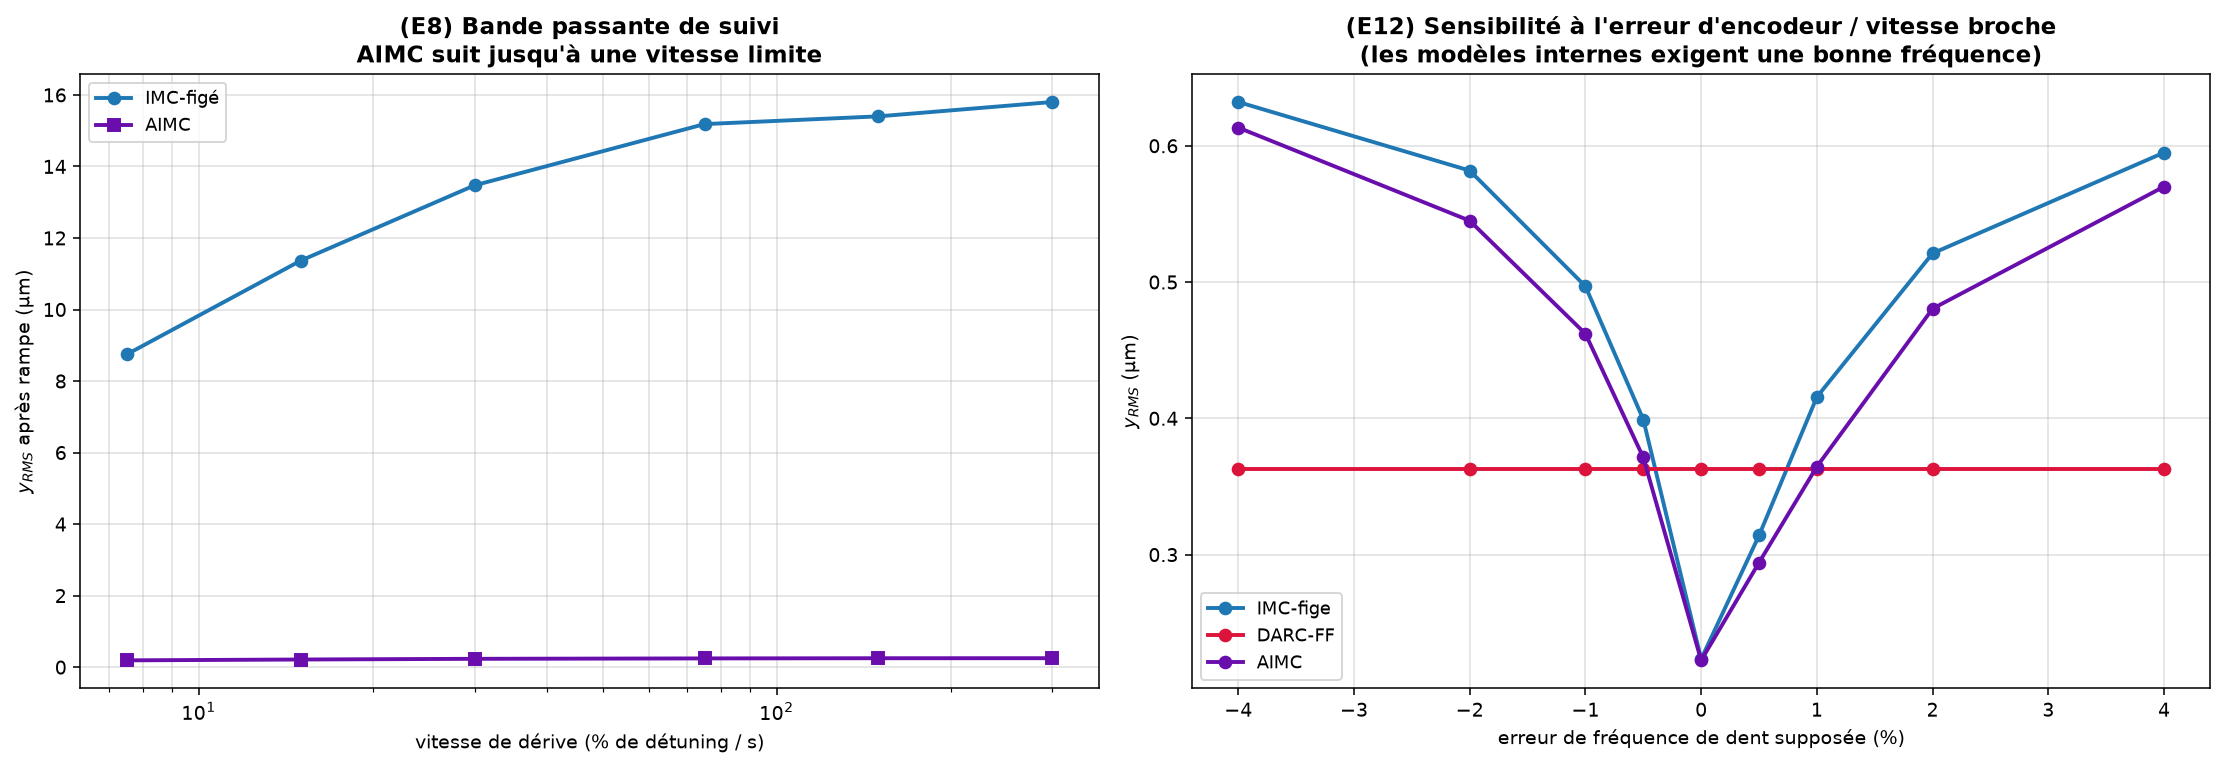
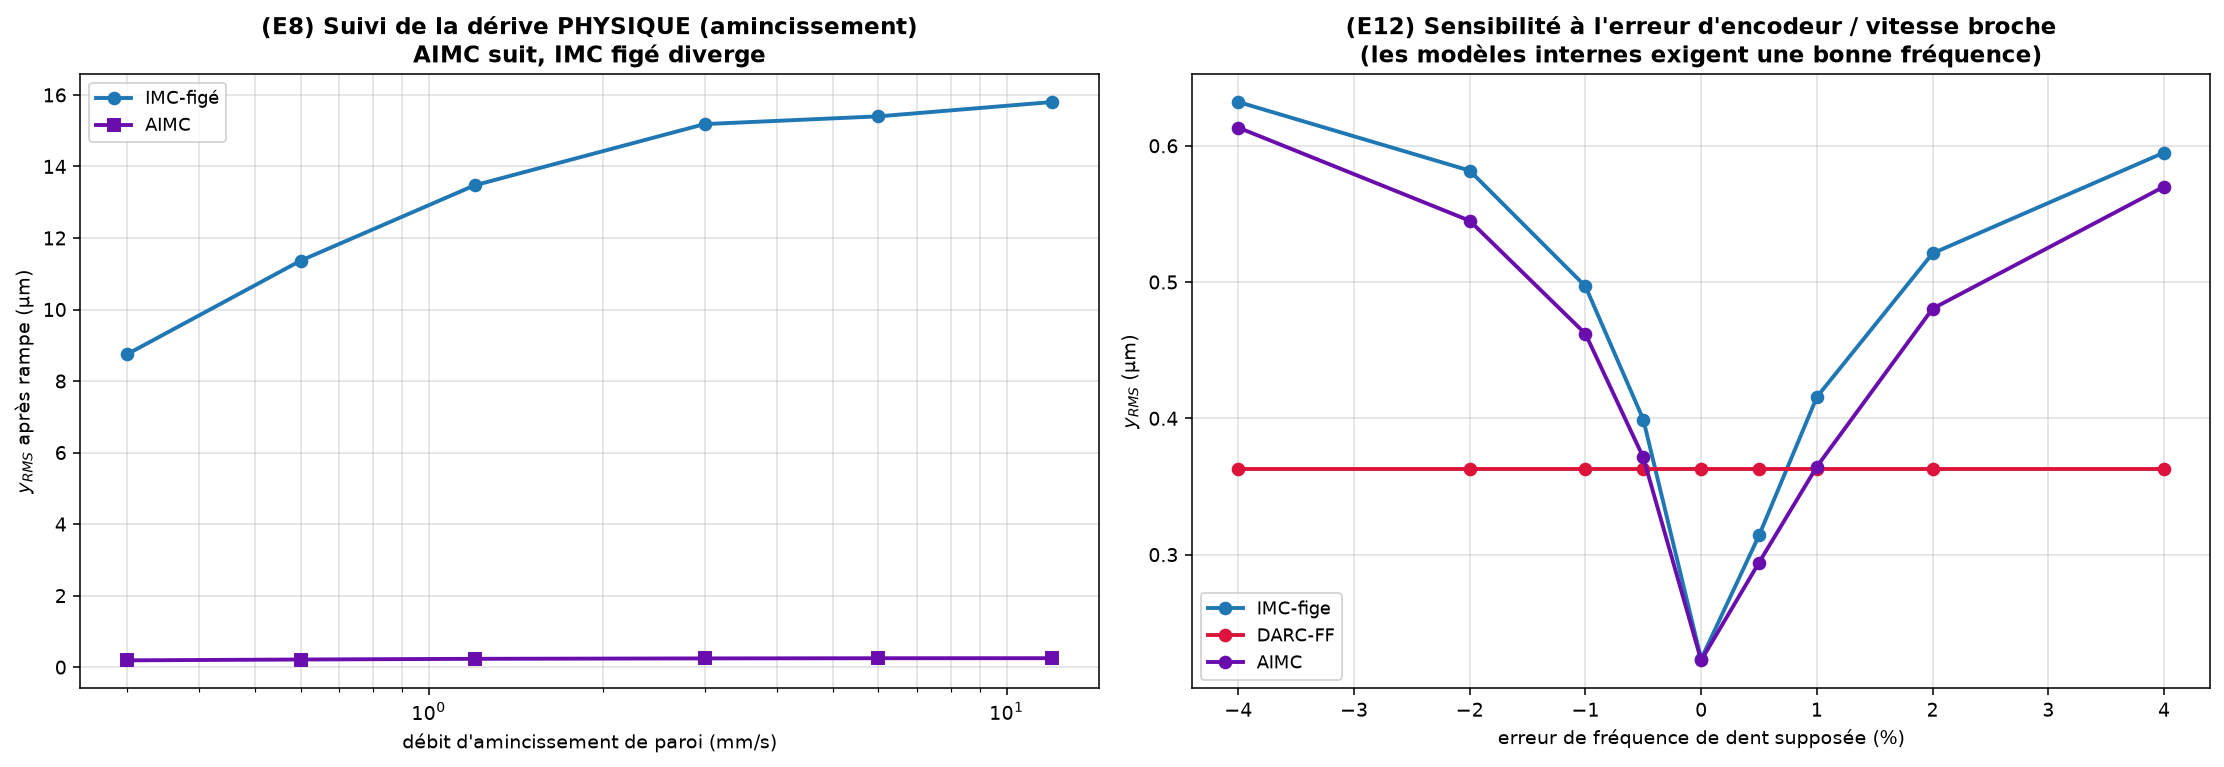
Physical modeling of the frequency drift: material-removal wall thinning
Answers the reviewer question 'is the drift physically modeled?'. Previously
k_scale_t was a prescribed ramp; it is now grounded in the mechanics of
thin-wall material removal, with an exact scaling law.

New 01_core/material_removal.py:
- For a plate, bending AND torsion stiffness scale as B^3 and inertia as B,
  so every natural frequency scales as omega_i ~ B (wall thickness). The
  uniform-across-modes detuning (the single MMAE parameter rho) is therefore
  EXACT for plate bending, not an approximation.
- thinning_schedule(t, B_nominal, removed_total | passes*ae, ...) returns
  k_scale_t = (B(t)/B0)^2 for the solver, plus B(t) and rho(t).
- Verified: (B/B0)^2 == the former (1+rho)^2 to machine precision (2e-16), so
  all prior detuning/drift results STAND, now physically interpreted:
  -15% detuning = 15% thinning = 0.6mm off 4mm = 6 passes x ae=0.1mm.

main_aimc_study.py (E3) and main_aimc_drift.py (E8) now build the drift from
thinning_schedule; E8 is reported in physical mm/s of wall thinning
(0.30-12 mm/s) instead of %/s. Numbers unchanged.

newmark_solver.py k_scale_t docstring gives the omega~B basis; docs section
6ter documents the physical model and its explicit limits (spatially uniform
effective thickness; mode shapes and Dp held nominal).

Claude-Session: https://claude.ai/code/session_01Piz883K812BzF5gruwcUWy

Changed region(s): [[0.1241, 0.0, 0.4033, 0.09], [0.1862, 0.9596, 0.3413, 0.9896]]

diff --git a/01_core/material_removal.py b/01_core/material_removal.py
@@ -1,0 +1,109 @@
+"""
+material_removal.py
+==================
+NMODÉLISATION PHYSIQUE de la dérive de fréquence en cours d'usinage d'une
+paroi mince — l'origine mécanique du détuning que l'AIMC identifie et suit.
+
+ORIGINE PHYSIQUE (enlèvement de matière) :
+Lorsqu'on usine une paroi mince, l'épaisseur locale B diminue (fraisage
+périphérique : chaque passe enlève l'engagement radial a_e ; en descendant la
+paroi, la portion déjà usinée est plus mince).  Les fréquences propres de la
+paroi dérivent en conséquence.
+
+LOI D'ÉCHELLE EXACTE (plaque) :  ω_i ∝ B
+Pour une plaque (flexion ET torsion), la rigidité par unité varie en B³
+(D = E B³/[12(1−ν²)], rigidité de torsion GJ ∝ B³) et l'inertie en B, d'où
+    ω_i = √(rigidité / inertie) ∝ √(B³/B) = B .
+=> TOUTES les fréquences (flexion, torsion, flexion-largeur) se mettent à
+   l'échelle du MÊME facteur B(t)/B₀.  La dérive uniforme entre modes
+   (k_scale identique pour tous) est donc EXACTE pour la flexion de plaque,
+   pas une approximation.  Elle JUSTIFIE physiquement le paramètre unique ρ
+   de la grille MMAE de l'AIMC :
+       ρ(t) = B(t)/B₀ − 1 ,  ω_i(t) = (1+ρ(t))·ω_{i,0} ,
+       k_scale(t) = (ω(t)/ω₀)² = (B(t)/B₀)²   (facteur sur Kp ; √ sur Cp).
+
+Un détuning de −15 % correspond exactement à un amincissement de 15 %
+(0.60 mm retirés d'une paroi de 4 mm).
+
+CE QUI N'EST PAS MODÉLISÉ (honnêteté) :
+- Amincissement SPATIALEMENT non uniforme : une paroi réellement usinée est
+  plus mince dans la zone déjà passée que devant l'outil ; cela ferait
+  aussi évoluer les FORMES propres et Dp, non seulement les fréquences.  Ici
+  on ne fait varier que les fréquences (effet dominant), les formes restent
+  celles de la plaque nominale — approximation « paroi d'épaisseur effective
+  uniforme instantanée ».
+- Couplage avec l'amortissement : ζ modaux supposés constants (Cp mis à
+  l'échelle en √k_scale pour garder ζ = C/(2√(KM)) constant).
+- Rétroaction géométrique de la matière enlevée sur le champ de contrainte.
+
+Ces limites sont explicites ; l'objet est de fournir une TRAJECTOIRE de
+fréquence physiquement fondée pour éprouver les commandes adaptatives.
+"""
+import numpy as np
+
+
+def kscale_from_thickness(B_current, B_nominal):
+    """
+    Facteur multiplicatif de raideur modale pour une épaisseur B_current
+    (loi de plaque ω ∝ B) :  k_scale = (B_current/B_nominal)².
+    ω(t) = √k_scale · ω₀ = (B_current/B_nominal)·ω₀.
+    """
+    r = float(B_current) / float(B_nominal)
+    return r * r
+
+
+def rho_from_thickness(B_current, B_nominal):
+    """Détuning fréquentiel ρ = ω/ω₀ − 1 = B_current/B_nominal − 1."""
+    return float(B_current) / float(B_nominal) - 1.0
+
+
+def thinning_schedule(t_vec, B_nominal, removed_total,
+                      t_start=None, t_end=None, profile='linear',
+                      passes=None, ae=None):
+    """
+    Construit la trajectoire k_scale(t) d'un amincissement PHYSIQUE de paroi.
+
+    Deux façons de spécifier la matière enlevée :
+      - directement par ``removed_total`` [m] (épaisseur totale retirée), ou
+      - par un nombre de passes ``passes`` × engagement radial ``ae`` [m]
+        (fraisage périphérique : removed_total = passes·ae).
+
+    Parameters
+    ----------
+    t_vec       : (nstep,) axe temps de la simulation [s].
+    B_nominal   : épaisseur initiale de la paroi [m].
+    removed_total : épaisseur totale retirée à la fin [m] (ex. 0.6e-3).
+    t_start, t_end : début/fin de l'enlèvement [s] (défaut : 20 %..80 % de
+                  la durée).  Avant t_start : paroi pleine ; après t_end :
+                  paroi amincie finale.
+    profile     : 'linear' (enlèvement à débit constant) ou 'smooth'
+                  (S-curve : accélération/décélération douce).
+    passes, ae  : alternative à removed_total (removed_total = passes·ae).
+
+    Returns
+    -------
+    k_scale_t : (nstep,) facteur de raideur modale, à passer à
+                NewmarkSimulator.simulate(k_scale_t=...).
+    B_t       : (nstep,) épaisseur de paroi [m] (diagnostic).
+    rho_t     : (nstep,) détuning fréquentiel ρ(t) (diagnostic).
+    """
+    t = np.asarray(t_vec, dtype=float)
+    T = t[-1]
+    if passes is not None and ae is not None:
+        removed_total = passes * ae
+    if t_start is None:
+        t_start = 0.2 * T
+    if t_end is None:
+        t_end = 0.8 * T
+
+    # fraction d'avancement de l'enlèvement ∈ [0,1]
+    frac = np.clip((t - t_start) / max(t_end - t_start, 1e-12), 0.0, 1.0)
+    if profile == 'smooth':
+        frac = 3*frac**2 - 2*frac**3          # S-curve (C¹, dérivée nulle aux bouts)
+
+    B_t = B_nominal - removed_total * frac
+    if np.any(B_t <= 0):
+        raise ValueError("Amincissement total >= épaisseur : paroi percée.")
+    k_scale_t = (B_t / B_nominal)**2
+    rho_t = B_t / B_nominal - 1.0
+    return k_scale_t, B_t, rho_t

diff --git a/05_main/main_aimc_drift.py b/05_main/main_aimc_drift.py
@@ -31,6 +31,7 @@ from imc_lqg_controller import IMCLQGController
 from darc_controller import DARCController
 from aimc_controller import AIMCController
 from newmark_solver import NewmarkSimulator
+from material_removal import thinning_schedule   # dérive de fréquence PHYSIQUE
 
 LP, HP, BP = 0.100, 0.080, 0.004
 RHO, E_AL, NU_AL = 2830, 69e9, 0.33
@@ -119,15 +120,19 @@ def make_ctrls(n_per):
 # ================================================================
 # E8 : limite de vitesse de dérive
 # ================================================================
-print("\n[E8] Bande passante de suivi : rampe 0 -> -15% de durées variables")
+print("\n[E8] Bande passante de suivi : amincissement PHYSIQUE de paroi "
+      "(0.6 mm = 15% de 4 mm) à débits variables")
 ramp_durs = [2.0, 1.0, 0.5, 0.2, 0.1, 0.05]   # s (du plus lent au plus rapide)
-e8 = {'ramp': [], 'IMC-fige': [], 'AIMC': [], 'lag': []}
+REMOVED = 0.15 * BP                            # 0.6 mm retirés (15% -> -15% freq)
+e8 = {'ramp': [], 'rate_mm': [], 'IMC-fige': [], 'AIMC': [], 'lag': []}
 for T_ramp in ramp_durs:
     T_end = 0.2 + T_ramp + 0.3            # avant + rampe + après
     sim, kp, arrs, n_per = setup(plate_d, ap, T_end)
     t = sim.t_vec
-    rho_true = np.clip((t - 0.2)/T_ramp, 0, 1)*(-0.15)
-    k_scale = (1.0 + rho_true)**2
+    # dérive PHYSIQUE : ω(t) ∝ B(t), amincissement de REMOVED sur [0.2, 0.2+T_ramp]
+    k_scale, B_t, rho_true = thinning_schedule(
+        t, B_nominal=BP, removed_total=REMOVED, t_start=0.2, t_end=0.2+T_ramp)
+    rate_mm = REMOVED*1e3 / T_ramp             # débit d'amincissement [mm/s]
     lqg, imc, aimc = make_ctrls(n_per)
     # RMS sur la fenêtre "après rampe établie" (dernier 0.2 s)
     i0 = int((T_end-0.2)/DT)
@@ -140,11 +145,12 @@ for T_ramp in ramp_durs:
     rr = np.array(aimc.trace_rho)
     i_end_ramp = min(int((0.2+T_ramp)/DT), len(rr)-1)
     lag = (rho_true[i_end_ramp] - rr[i_end_ramp])*100   # % de retard
-    e8['ramp'].append(T_ramp); e8['IMC-fige'].append(rms_tail(r_imc))
+    e8['ramp'].append(T_ramp); e8['rate_mm'].append(rate_mm)
+    e8['IMC-fige'].append(rms_tail(r_imc))
     e8['AIMC'].append(rms_tail(r_aimc)); e8['lag'].append(lag)
-    rate = 15.0/T_ramp
-    print(f"  rampe {T_ramp:.2f}s ({rate:5.0f}%/s) : IMC-fige={rms_tail(r_imc):6.3f}  "
-          f"AIMC={rms_tail(r_aimc):6.3f} um  retard_ID={lag:+.1f}%")
+    print(f"  amincissement {rate_mm:5.2f} mm/s ({15.0/T_ramp:5.0f}%/s) : "
+          f"IMC-fige={rms_tail(r_imc):6.3f}  AIMC={rms_tail(r_aimc):6.3f} um  "
+          f"retard_ID={lag:+.1f}%")
 
 # ================================================================
 # E12 : erreur d'encodeur / variation de vitesse de broche
@@ -175,13 +181,13 @@ for df in df_axis:
 # ================================================================
 fig, axes = plt.subplots(1, 2, figsize=(16, 5.6))
 ax = axes[0]
-rates = [15.0/T for T in e8['ramp']]
+rates = e8['rate_mm']
 ax.plot(rates, e8['IMC-fige'], 'o-', color=COL['IMC-fige'], lw=2, ms=6, label='IMC-figé')
 ax.plot(rates, e8['AIMC'], 's-', color=COL['AIMC'], lw=2, ms=6, label='AIMC')
-ax.set_xlabel("vitesse de dérive (% de détuning / s)")
+ax.set_xlabel("débit d'amincissement de paroi (mm/s)")
 ax.set_ylabel("$y_{RMS}$ après rampe (µm)")
 ax.set_xscale('log')
-ax.set_title("(E8) Bande passante de suivi\nAIMC suit jusqu'à une vitesse limite",
+ax.set_title("(E8) Suivi de la dérive PHYSIQUE (amincissement)\nAIMC suit, IMC figé diverge",
              fontweight='bold')
 ax.legend(fontsize=9); ax.grid(True, which='both', alpha=0.4)
 

diff --git a/05_main/main_aimc_study.py b/05_main/main_aimc_study.py
@@ -37,6 +37,7 @@ from darc_controller import DARCController
 from smc_dob_controller import SMCDOBController
 from aimc_controller import AIMCController
 from newmark_solver import NewmarkSimulator
+from material_removal import thinning_schedule
 
 # ============================================================
 # Paramètres physiques (identiques à main_simulation.py)
@@ -177,14 +178,16 @@ for name, ap, KT, fp in scenarios:
 # ================================================================
 # E3 : dérive en cours d'usinage (rampe 0 -> -15 %, T = 2 s)
 # ================================================================
-print("\n[E3] Dérive en cours d'usinage : omega 0 -> -15% sur t=[0.4,1.6]s (T=2s)")
+print("\n[E3] Dérive PHYSIQUE (amincissement paroi 4->3.4mm, loi ω∝B) sur t=[0.4,1.6]s (T=2s)")
 ap = 0.3e-3
 plate_d = build_plate(ap, 0.0)
 sim, kp, arrs, a3_n, n_per = make_setup(plate_d, ap, KT_NOMINAL, 2.0)
 Dp_ff = plate_d.get_Dp_at(int(kp[sim.nstep // 2]))[0]
 t = sim.t_vec
-rho_true = np.clip((t - 0.4)/(1.6 - 0.4), 0, 1) * (-0.15)
-k_scale = (1.0 + rho_true)**2
+# dérive de fréquence PHYSIQUE : amincissement de la paroi (loi plaque ω ∝ B).
+# 0.6 mm retirés d'une paroi de 4 mm = 15 % -> détuning -15 % (cf. material_removal).
+k_scale, B_t, rho_true = thinning_schedule(
+    t, B_nominal=BP, removed_total=0.15*BP, t_start=0.4, t_end=1.6)
 
 segs = [(0.0, 0.4), (0.4, 1.0), (1.0, 1.6), (1.6, 2.0)]
 def rms_seg(r, t0, t1):

diff --git a/01_core/newmark_solver.py b/01_core/newmark_solver.py
@@ -103,11 +103,14 @@ class NewmarkSimulator:
         sensor_noise : bruit additif du capteur [m] (écart-type), 0=off.
         sensor_rng : générateur aléatoire pour le bruit capteur (reproductible).
         k_scale_t : (nstep,) facteur multiplicatif de la raideur modale au
-            cours du temps (None = 1, comportement historique).  Simule la
-            DÉRIVE EN COURS D'USINAGE des fréquences propres (proxy de
-            l'enlèvement de matière sur paroi mince) :
+            cours du temps (None = 1, comportement historique).  Modélise la
+            DÉRIVE EN COURS D'USINAGE des fréquences propres par ENLÈVEMENT DE
+            MATIÈRE (amincissement de paroi mince) :
                 Kp(t) = k_scale(t)·Kp ,  Cp(t) = sqrt(k_scale(t))·Cp
             (amortissements modaux ζ constants, ω_i(t) = sqrt(k_scale)·ω_i).
+            Base physique : pour une plaque, ω_i ∝ B (épaisseur) pour TOUS les
+            modes, donc k_scale = (B(t)/B₀)² est exact et uniforme entre modes.
+            Construire k_scale_t avec ``material_removal.thinning_schedule``.
             Le CONTRÔLEUR n'est PAS informé de cette dérive (protocole
             honnête) — c'est le banc d'essai des commandes adaptatives.
         """

diff --git a/setup_workspace.py b/setup_workspace.py
@@ -79,6 +79,7 @@ def main():
     test_imports = [
         'kirchhoff_q4',
         'plate_model',
+        'material_removal',
         'piezo_actuator',
         'milling_force',
         'newmark_solver',

diff --git a/docs/ETUDE_ARCHITECTURES.md b/docs/ETUDE_ARCHITECTURES.md
@@ -196,12 +196,13 @@ Référence : LQG 7 µs, IMC 22 µs, DARC 15 µs, STSMC 15 µs. L'AIMC est ~2× 
 version, boucle Python, faisait 139 µs > dt ; la vectorisation était donc
 nécessaire — la charge algorithmique elle-même est modérée pour un DSP.)
 
-**E8 — bande passante de suivi (limite honnête).** La fenêtre d'oubli de 10 ms
-donne une large bande de suivi : l'AIMC reste à **0.19–0.25 µm pour TOUS les
-taux de dérive testés (8 %/s → 300 %/s)**, avec un retard d'identification
-< 4 %. L'IMC figé, lui, diverge (8.7 → 15.8 µm) dès que le détuning s'accumule,
-à toute vitesse. (Un enlèvement de matière réaliste dérive de quelques %/s ;
-l'AIMC a donc une très large marge.)
+**E8 — bande passante de suivi (limite honnête, dérive PHYSIQUE).** La dérive
+est modélisée par l'AMINCISSEMENT PHYSIQUE de la paroi (§6ter) : 0.6 mm retirés
+d'une paroi de 4 mm (15 %) à débit variable. L'AIMC reste à **0.19–0.25 µm pour
+TOUS les débits testés (0.30 → 12 mm/s d'amincissement)**, avec un retard
+d'identification < 4 %. L'IMC figé diverge (8.7 → 15.8 µm) à tout débit. Un
+enlèvement de matière réaliste en finition de paroi mince est bien inférieur au
+mm/s ; l'AIMC a donc une très large marge de bande passante.
 
 **E12 — erreur d'encodeur / vitesse broche (limite honnête).** L'AIMC et l'IMC
 partagent la sensibilité des modèles internes à la fréquence de dent supposée :
@@ -212,6 +213,37 @@ fréquence). Le DARC, indexé par la PHASE (pas par f_fund), y est immunisé
 verrouillage sur l'encodeur (±4 % de RPM est énorme ; les encodeurs réels sont
 < 0.1 %) — une grille MMAE en fréquence, ou l'ajout de la fréquence à
 l'identification, lèverait cette sensibilité (P1).
+
+## 6ter. NMODÉLISATION PHYSIQUE de la dérive (`01_core/material_removal.py`)
+
+La dérive de fréquence que l'AIMC identifie n'est PAS un simple bruit
+paramétrique : elle a une origine mécanique précise, l'**enlèvement de
+matière** en usinage de paroi mince.
+
+**Loi d'échelle exacte.** Pour une plaque, la rigidité par unité (flexion
+D ∝ B³ ; torsion GJ ∝ B³) et l'inertie ∝ B, d'où
+        ω_i = √(rigidité/inertie) ∝ √(B³/B) = B .
+**TOUTES** les fréquences (flexion, torsion, flexion-largeur) se mettent à
+l'échelle du MÊME facteur B(t)/B₀. La dérive uniforme entre modes — donc le
+paramètre UNIQUE ρ de la grille MMAE de l'AIMC — est **exacte pour la flexion
+de plaque, pas une approximation**. Un détuning de −15 % ≡ un amincissement de
+15 % (0.60 mm sur 4 mm) ≡ 6 passes × a_e = 0.1 mm en fraisage périphérique
+(vérifié à la précision machine : k_scale = (B/B₀)² = (1+ρ)²).
+
+Le solveur reçoit `k_scale_t` construit par `thinning_schedule(...)` :
+`Kp(t) = (B(t)/B₀)²·Kp`, `Cp(t) = (B(t)/B₀)·Cp` (ζ constants). Les scénarios de
+détuning STATIQUE (S3, S3b, E4) et de DÉRIVE (E3, E8) sont ainsi tous ancrés
+dans une même physique d'amincissement.
+
+**Limites explicites (honnêteté).** L'amincissement réel est spatialement non
+uniforme (zone usinée plus mince que devant l'outil) : cela ferait aussi
+évoluer les FORMES propres et Dp, non seulement les fréquences. Ici seules les
+fréquences varient (effet dominant), les formes restent nominales
+(approximation « épaisseur effective uniforme instantanée »). La rétroaction
+géométrique matière-contrainte et la variation de Dp par perte de masse ne sont
+pas modélisées. Ces limites bornent la portée quantitative mais non la
+conclusion qualitative (l'AIMC suit une dérive de fréquence d'origine physique
+là où le modèle figé décroche).
 
 ## 7. Pistes de travail (P1 — recherche)
 
